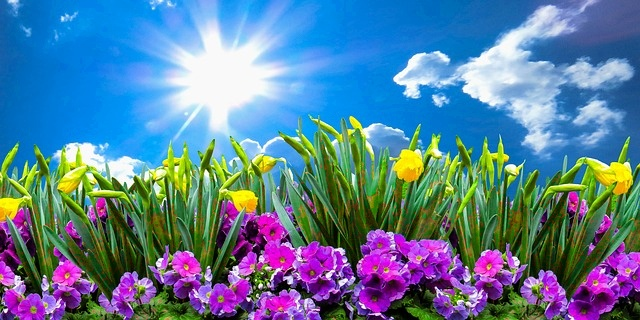
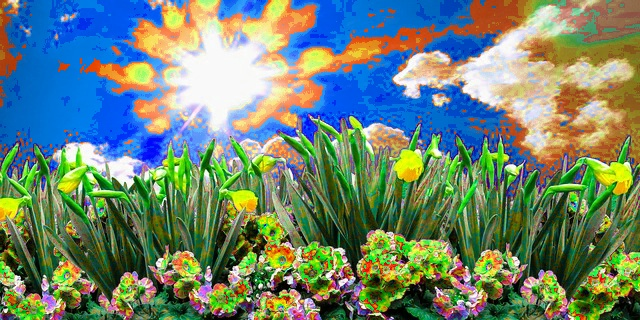
vignettes + images

diff --git a/Sources/complementaire4.py b/Sources/complementaire4.py
@@ -31,32 +31,54 @@ def findBestHarmonieCompl(histoHSV, imgHSV, verbose = True):
     print("complémentaire : ", modeCompl)
     print("nbOcc : ", mode[1])
     #on harmonise les couleur de l'image
+    dif=45
+    a=0
+    b=0
+    c=0  
+    d=0    
+    e=0
     for i in range(0,imgHSV.shape[0]):
         for j in range(0,imgHSV.shape[1]):
             #calcul de la distance entre le mode et le complémentaire
-            #on modifie les pixel courant        
+            #on modifie les pixel courant  
+            
+            
             distColor = distModulo_WithoutAbs(mode[0],imgHSV[i,j][0], 179)    # abs(mode[0]-imgHSV[i,j][0])# distanceComp(mode[0], img[i,j],0)
-            distCompl = distModulo_WithoutAbs(modeCompl,imgHSV[i,j][0], 179)    # abs(modeCompl-imgHSV[i,j][0]) #distanceComp(modeCompl, img[i,j],0)
+            distCompl = distModulo_WithoutAbs(modeCompl,imgHSV[i,j][0], 179)   # abs(modeCompl-imgHSV[i,j][0]) #distanceComp(modeCompl, img[i,j],0)
+            distColora = abs(distColor)
+            distCompla = abs(distCompl)
             if abs(distColor) < abs(distCompl):
-                if(distColor<imgHSV[i,j][0]<distCompl or  distColor>imgHSV[i,j][0]): 
-                    imgHSV.itemset((i,j,0),mode[0]*(distColor/45) + (imgHSV[i,j][0]*(1-distColor/45)))
-                elif (distColor<distCompl<imgHSV[i,j][0]) :
+                
+                if(distColora<imgHSV[i,j][0]<distCompla or  distColora>imgHSV[i,j][0]): 
+                    imgHSV.itemset((i,j,0),mode[0]*(distColor/dif) + (imgHSV[i,j][0]*(1-distColor/dif)))
+                    a+=1
+                elif (distColora<distCompla<imgHSV[i,j][0]) :
+                    b+=1
                     colors=imgHSV[i,j][0]-255
-                    imgHSV.itemset((i,j,0),mode[0]*(distColor/45) + (colors*(1-distColor/45)))
-                elif (distColor>distCompl>imgHSV[i,j][0]) :
+                    imgHSV.itemset((i,j,0),mode[0]*(distColor/dif) + (colors*(1-distColor/dif)))
+                elif (distColora>distCompla>imgHSV[i,j][0]) :
+                    b+=1
                     colors=imgHSV[i,j][0]+255
-                    imgHSV.itemset((i,j,0),mode[0]*(distColor/45) + (colors*(1-distColor/45)))
+                    imgHSV.itemset((i,j,0),mode[0]*(distColor/dif) + (colors*(1-distColor/dif)))
+                else:
+                    e+=1
             else:
-                if(distColor<imgHSV[i,j][0]<distCompl or  distCompl>imgHSV[i,j][0]):
-                    imgHSV.itemset((i,j,0),modeCompl*(distCompl/45)+ (imgHSV[i,j][0]*(1-distCompl/45)))
-                elif (distCompl<distColor<imgHSV[i,j][0]) :
+                
+                if(distCompla<imgHSV[i,j][0]<distColora or  distCompla>imgHSV[i,j][0]):
+                    c+=1
+                    imgHSV.itemset((i,j,0),modeCompl*(distCompl/dif)+ (imgHSV[i,j][0]*(1-distCompl/dif)))
+                elif (distCompla<distColora<imgHSV[i,j][0]) :
+                    d+=1
                     colors=imgHSV[i,j][0]-255
-                    imgHSV.itemset((i,j,0),mode[0]*(distCompl/45) + (colors*(1-distCompl/45)))
-                elif (distCompl>distColor>imgHSV[i,j][0]) :
-                   colors=imgHSV[i,j][0]+255
-                   imgHSV.itemset((i,j,0),mode[0]*(distCompl/45) + (colors*(1-distCompl/45)))
+                    imgHSV.itemset((i,j,0),mode[0]*(distCompl/dif) + (colors*(1-distCompl/dif)))
+                elif (distCompla>distColora>imgHSV[i,j][0]) :
+                    d+=1
+                    colors=imgHSV[i,j][0]+255
+                    imgHSV.itemset((i,j,0),mode[0]*(distCompl/dif) + (colors*(1-distCompl/dif)))
+                else:
+                    e+=1
 
-
+    print(a,b,c,d,e)
 
             
 

diff --git a/Sources/complementaire_converge.py b/Sources/complementaire_converge.py
@@ -39,6 +39,8 @@ def findBestHarmonieCompl(histoHSV, imgHSV, verbose = True):
            # print("\nappel fonction: ",tupleTeinte,imgHSV[i,j] )
             colorcurr = (imgHSV[i,j])
             imgHSV.itemset((i,j,0),   getColor_Degrader(tupleTeinte,colorcurr ))
+    couleurs = vignette([mode[0],modeCompl])
+    cv2.imwrite("../Images/Outputs/"+filename+"/"+filename+"_Compl_converge_Vignette.jpg", couleurs)
             
 
 
@@ -72,6 +74,6 @@ findBestHarmonieCompl(histoHSV, hsvImage)
 #findBestHarmonieTriad(histo, img)
 
 img = cv2.cvtColor(hsvImage, cv2.COLOR_HSV2BGR)
-cv2.imwrite("../Images/Outputs/"+filename+"/"+filename+"_Compl100HSV.jpg", hsvImage)
-cv2.imwrite("../Images/Outputs/"+filename+"/"+filename+"_Compl100.jpg", img)
+#cv2.imwrite("../Images/Outputs/"+filename+"/"+filename+"_Compl100HSV.jpg", hsvImage)
+cv2.imwrite("../Images/Outputs/"+filename+"/"+filename+"_Compl_converge.jpg", img)
 

diff --git a/Sources/imgTools.py b/Sources/imgTools.py
@@ -1,6 +1,7 @@
 import cv2
 import random
 import math
+import numpy as np
 
 
 #permet d'afficher les pourcentage de progression
@@ -121,6 +122,20 @@ def min_SUP_modulo(tupleTeinte, pixelHSV):
             teinte = i
     return teinte, dist
 
+
+def vignette(colors):
+    img2 = np.zeros((50,100,3),dtype=np.uint8)
+    imghsv2 = cv2.cvtColor(img2, cv2.COLOR_BGR2HSV)
+    for i in range(50):
+        for j in range(100):
+            imghsv2.itemset((i,j,1),179)
+            imghsv2.itemset((i,j,2),179)
+            #if j<(100//len(colors)):
+            imghsv2.itemset((i,j,0),colors[math.floor(j/math.ceil(100/len(colors)))])
+            #else:
+             #   imghsv2.itemset((i,j,0),colors[1])
+    img2 = cv2.cvtColor(imghsv2, cv2.COLOR_HSV2BGR)
+    return img2
 
 
 

diff --git a/Sources/complementaire.py b/Sources/complementaire.py
@@ -38,10 +38,11 @@ def findBestHarmonieCompl(histoHSV, imgHSV, verbose = True):
             distColor = distModulo(mode[0],imgHSV[i,j][0], 179)    # abs(mode[0]-imgHSV[i,j][0])# distanceComp(mode[0], img[i,j],0)
             distCompl = distModulo(modeCompl,imgHSV[i,j][0], 179)    # abs(modeCompl-imgHSV[i,j][0]) #distanceComp(modeCompl, img[i,j],0)
             if distColor < distCompl:
-                imgHSV.itemset((i,j,0),mode[0]*(1-distColor/45) + (imgHSV[i,j][0]*(distColor/45)))
+                imgHSV.itemset((i,j,0),mode[0])
             else:
 
-                 imgHSV.itemset((i,j,0),modeCompl*(1-distCompl/45)+ (imgHSV[i,j][0]*(distCompl/45)))
+                imgHSV.itemset((i,j,0),modeCompl)
+            
 
 
 

diff --git a/Sources/triadique_converge.py b/Sources/triadique_converge.py
@@ -37,6 +37,9 @@ def findBestHarmonieCompl(histoHSV, imgHSV, verbose = True):
         for j in range(0,imgHSV.shape[1]):
             colorcurr = (imgHSV[i,j])
             imgHSV.itemset((i,j,0),   getColor_Degrader(tupleTeinte,colorcurr ))
+    couleurs = vignette([mode[0],modet1,modet2])
+    cv2.imwrite("../Images/Outputs/"+filename+"/"+filename+"_Triadique_converge_Vignette.jpg", couleurs)
+
             
 
 
@@ -46,7 +49,7 @@ def findBestHarmonieCompl(histoHSV, imgHSV, verbose = True):
 # pensez a rectifier si nécessaire pour les calculs
 ####
 
-filename = "tulipes"
+filename = "fleurs"
 img = cv2.imread ("../Images/Inputs/"+filename+".jpg")
 #ImgIndex = cv2.cvtColor(img, cv2.COLOR_BGR2GRAY)
 

diff --git a/Sources/monochromatique_converge.py b/Sources/monochromatique_converge.py
@@ -34,6 +34,9 @@ def findBestHarmonieCompl(histoHSV, imgHSV, verbose = True):
                 #imgHSV.itemset((i,j,0),mode[0])
                 colorcurr = (imgHSV[i,j])
                 imgHSV.itemset((i,j,0),   getColor_Degrader(tupleTeinte,colorcurr ))
+    couleurs = vignette([mode[0]])
+    cv2.imwrite("../Images/Outputs/"+filename+"/"+filename+"_Mono_converge_Vignette.jpg", couleurs)
+
 
 
 

diff --git a/Sources/analogue_converge.py b/Sources/analogue_converge.py
@@ -48,6 +48,8 @@ def findBestHarmonieAnalogue(histoHSV, imgHSV, verbose = True):
                     imgHSV.itemset((i,j,0),modecolorA)
                 else:
                     imgHSV.itemset((i,j,0),modecolorB)
+    couleurs = vignette([mode[0],modecolorA,modecolorB])
+    cv2.imwrite("../Images/Outputs/"+filename+"/"+filename+"_Analogue_converge_Vignette.jpg", couleurs)
             
 
 
